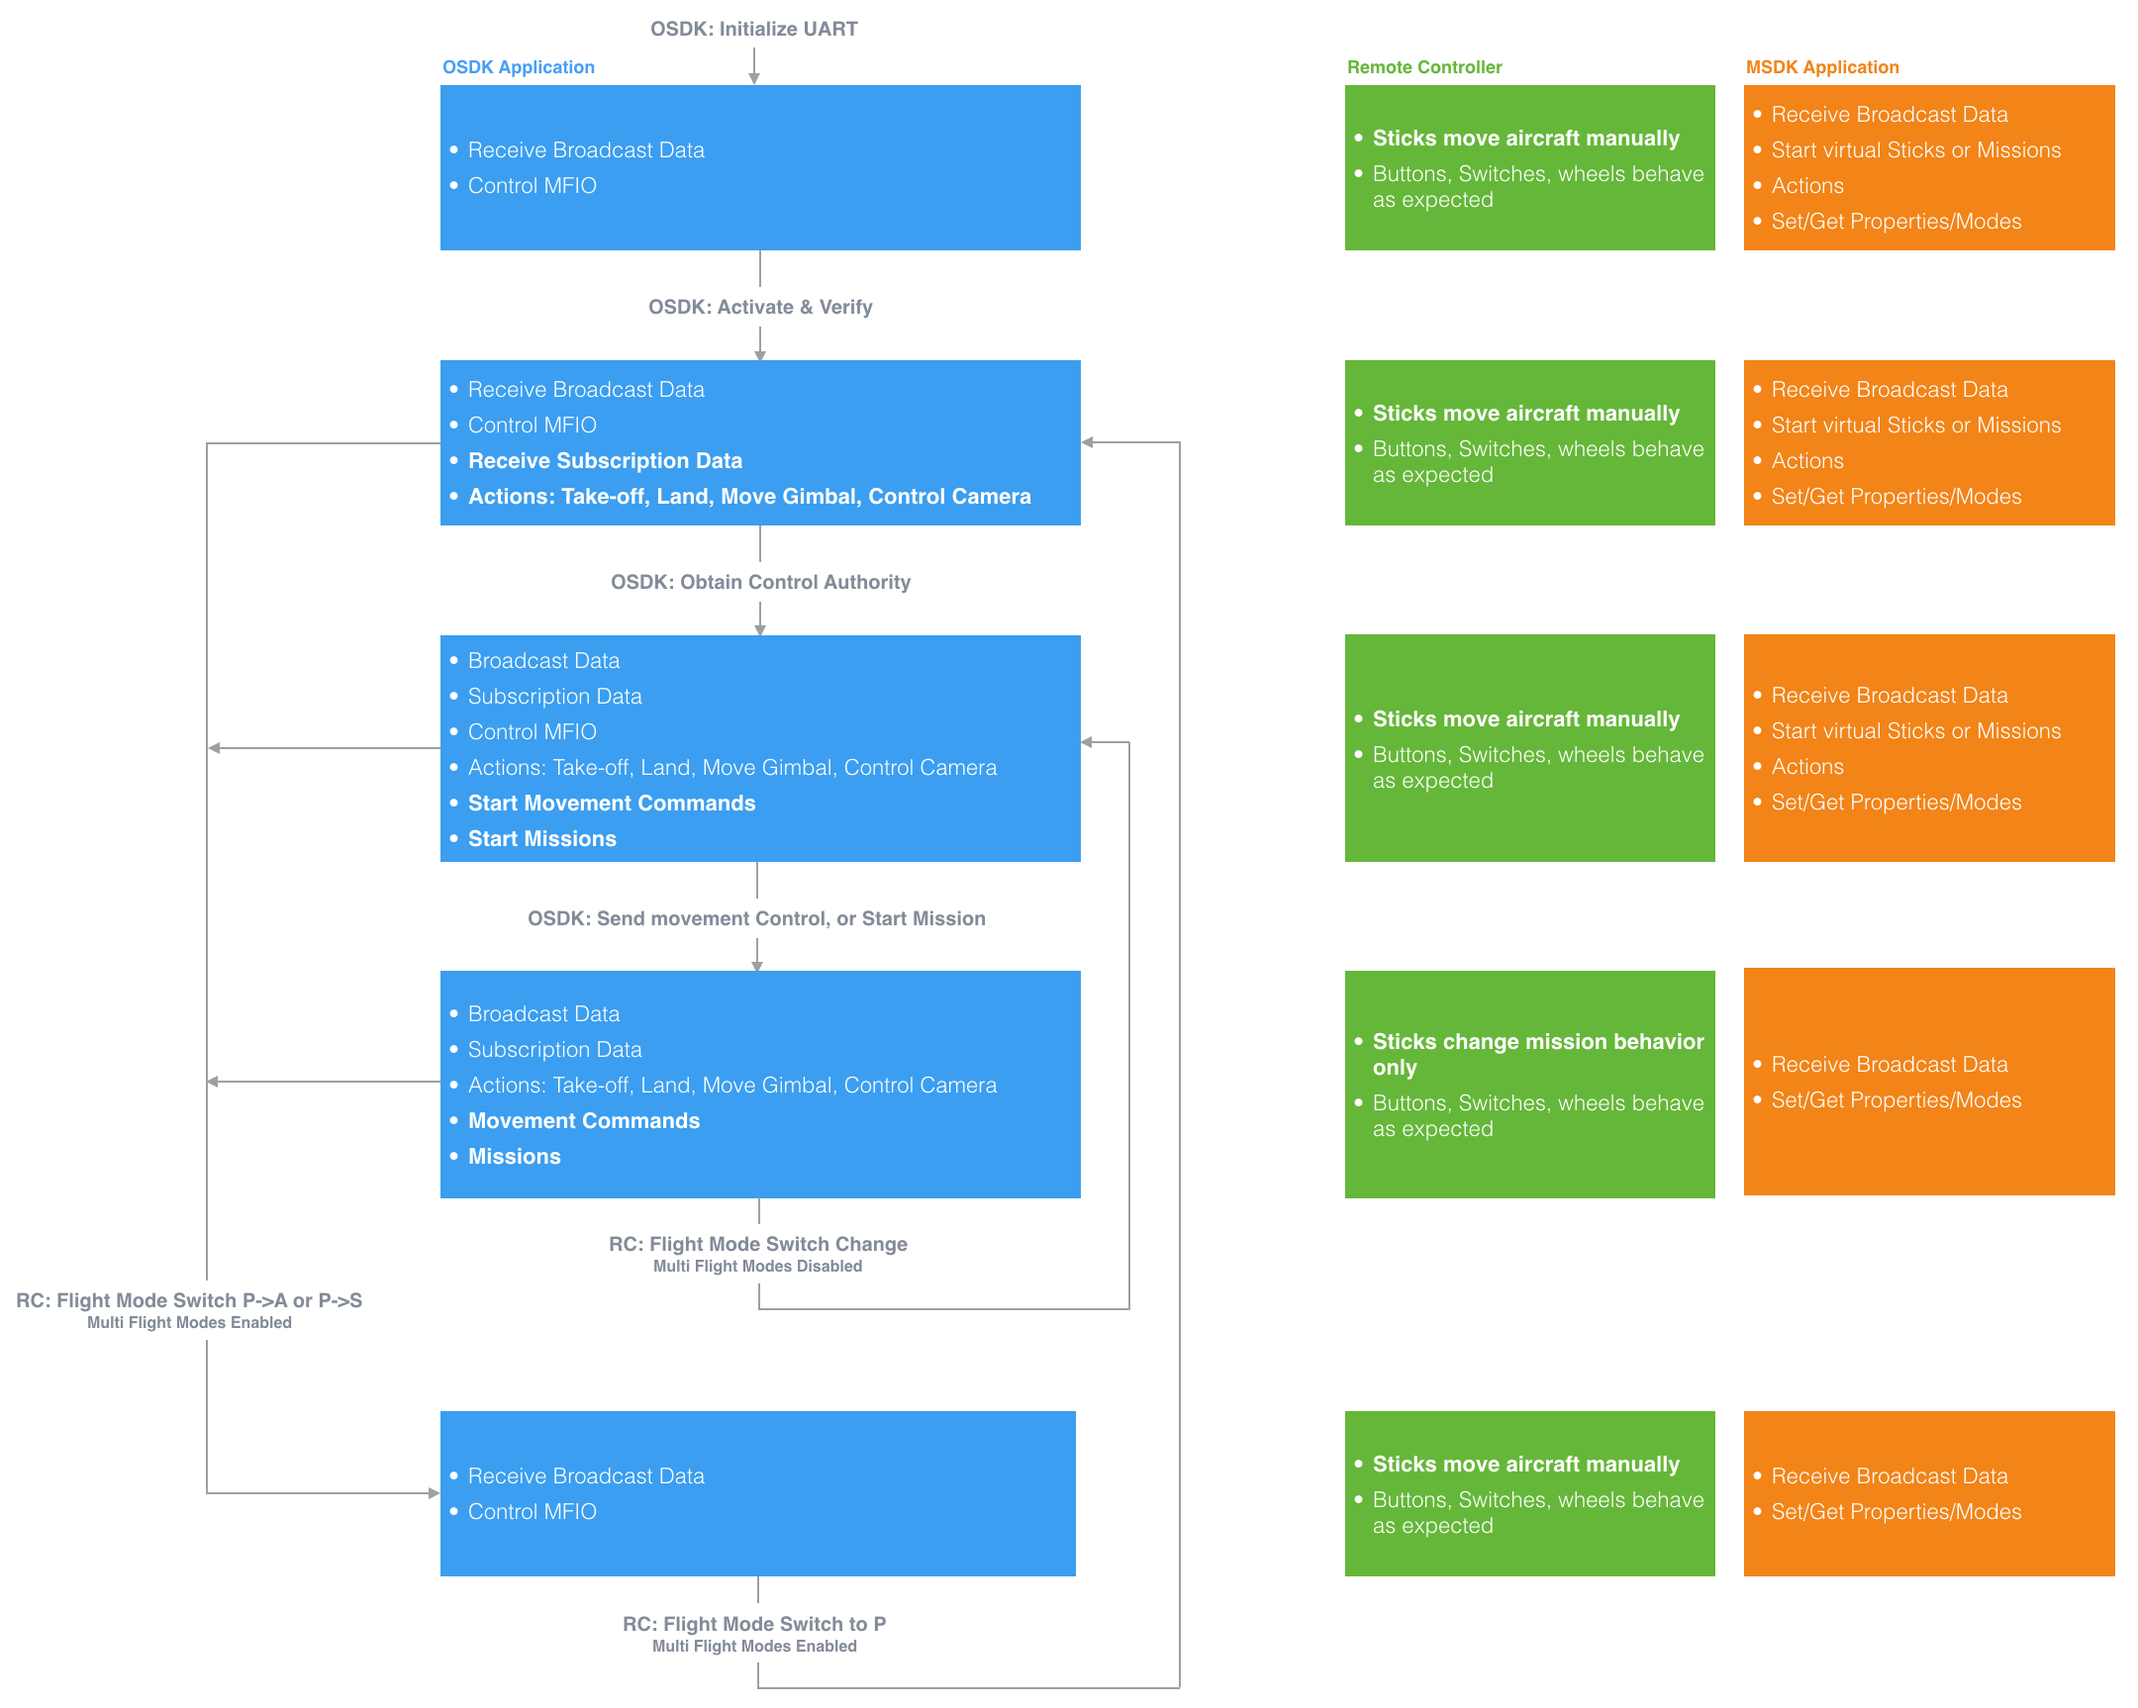
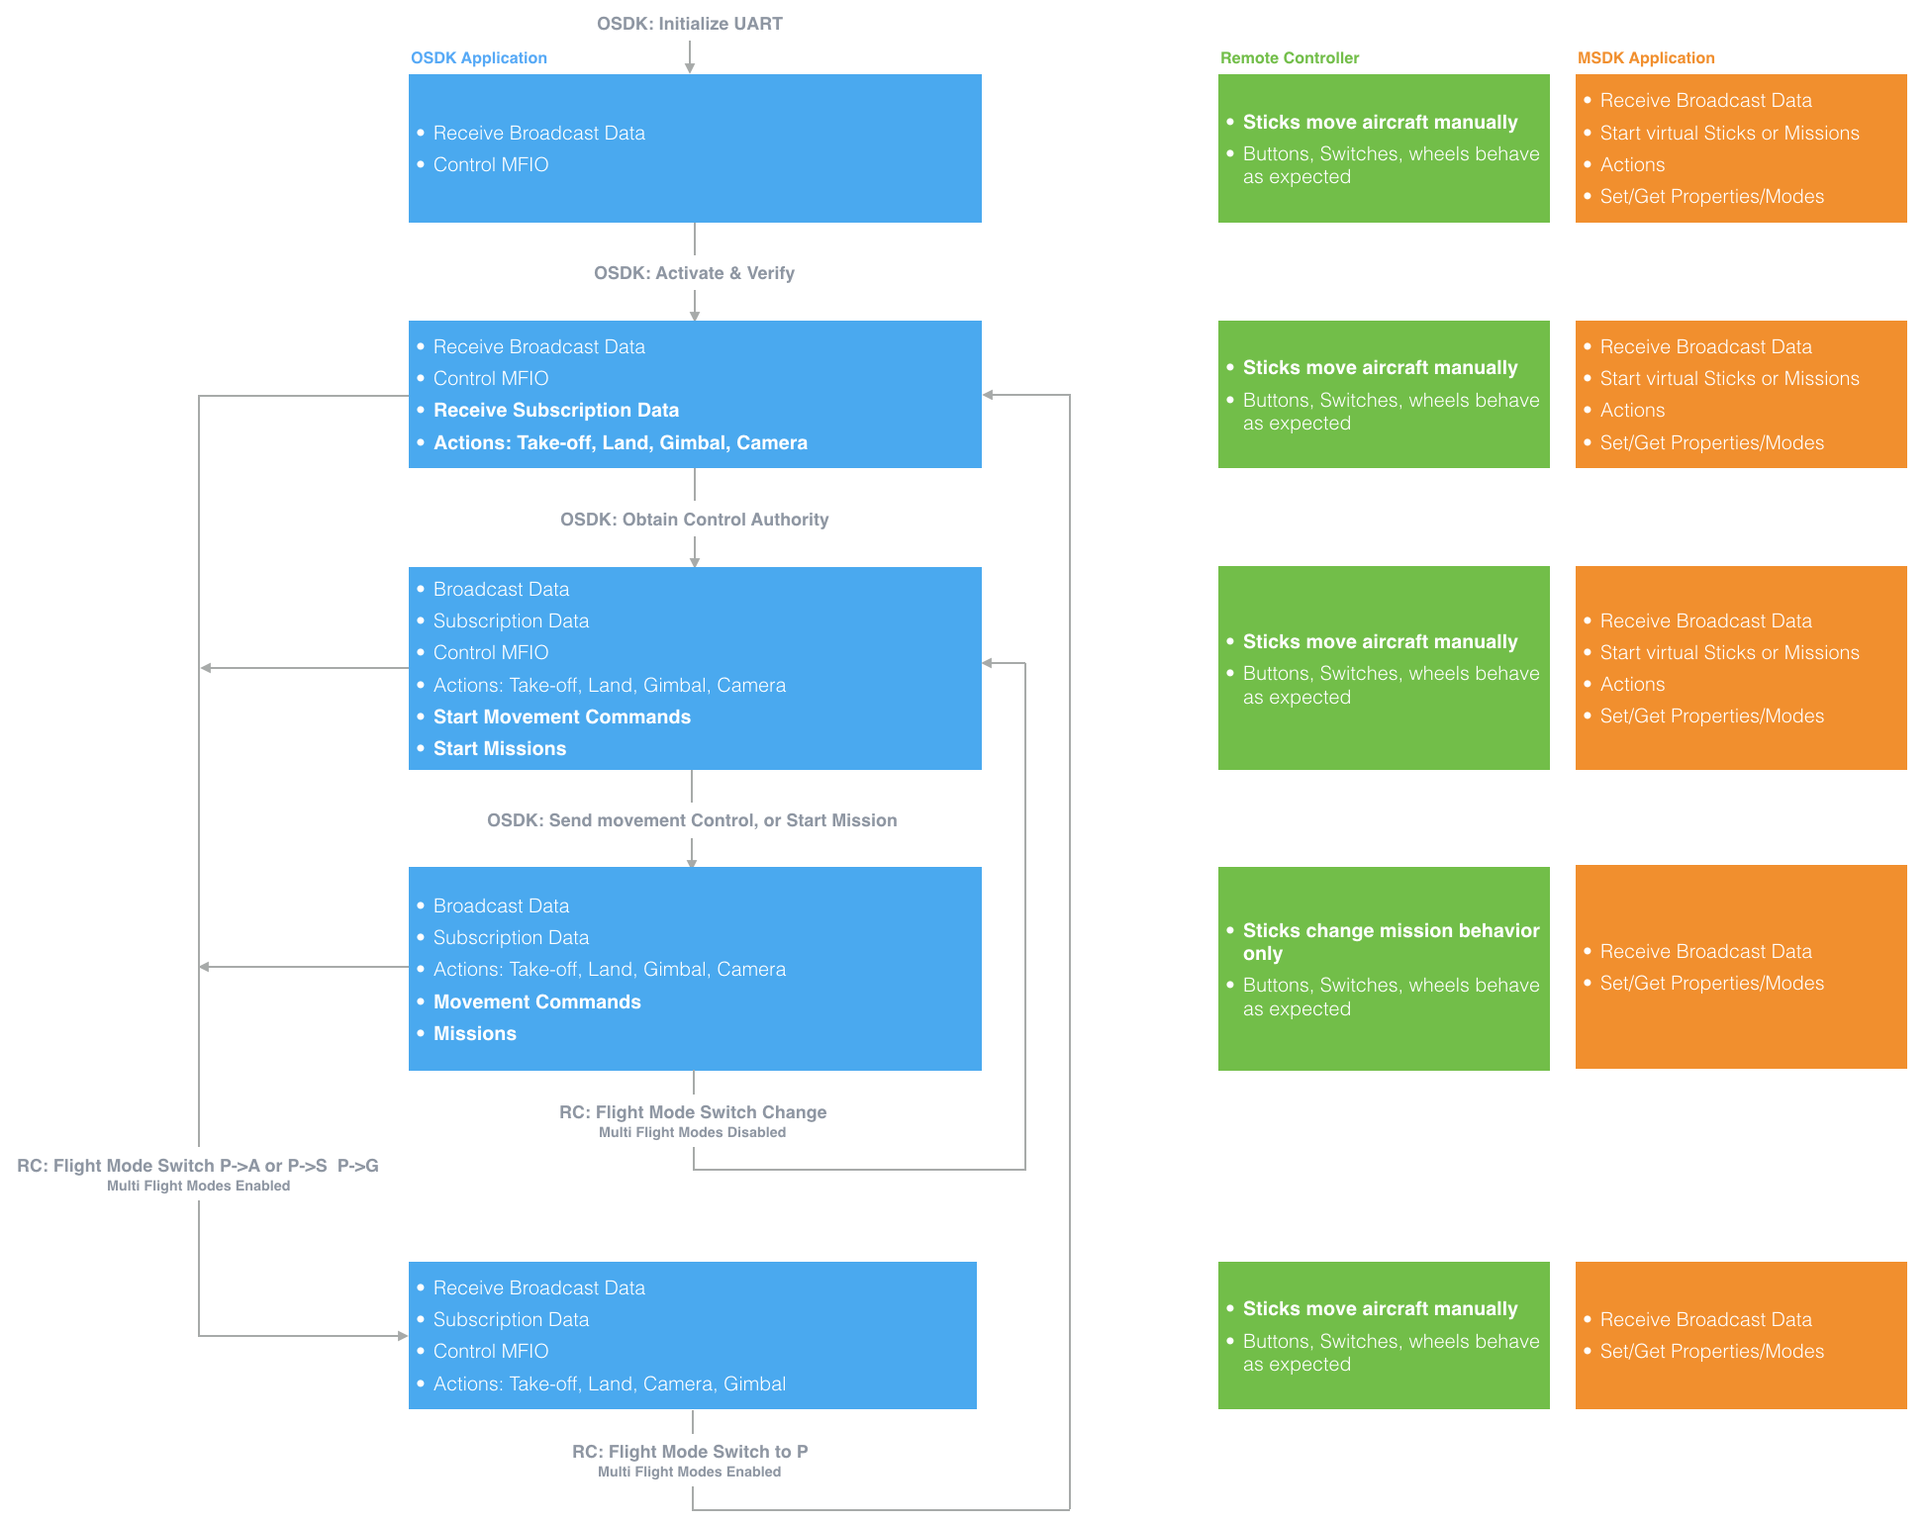
Control Authority Verbiage and Diagram

diff --git a/source/guides/component-guide-control-authority.md b/source/guides/component-guide-control-authority.md
@@ -20,14 +20,30 @@ The remote controller has the highest priority for control authority, and can re
 
 This is always done by switching the Flight Mode Switch on the remote controller. 
 
-For all DJI products except A3/N3 and M600/M600 Pro, there will be at least one switch position that allows SDK control, and another that disables it. 
+The Flight Mode Switch can represent 6 possible modes:
 
-A3 and N3 stand alone flight controllers have two possibilities, based around if **Multiple Flight Modes** is enabled or disabled (this is enabled/disabled in DJI Assistant).
+* **P** - Positioning mode. GNSS and Vision Positioning Systems are used for positioning if they are available. For products without F mode, intelligent functions such as SDK control can be performed in P-mode.
+* **F** - Function mode. Performs the same as Positioning mode with intelligent functions such as SDK control.
+* **A** - Attitude mode. The GNSS and Vision Positioning Systems are not used for positioning. The aircraft only uses the barometer to maintain altitude. If receiving a GNSS signal, the aircraft can automatically return home if the Remote Controller signal is lost and if the Home Point has been recorded successfully.
+* **S** - Sport mode. The maximum flight speed and responsiveness of the aircraft is increased in this mode.
+* **G** - Gentle mode. The sensitivity and speed of aircraft will be substantially decreased in gentle mode.
+* **M** - Manual mode. The aircraft will not stabilize its altitude nor attitude in manual mode. This mode is for advanced pilots only, and should only be used when the pilot understands the risk of operating in this mode. Any damage to the product when operating in this mode will not be covered under warranty. It is supported by stand-alone A3 and N3 and can be enabled in DJI Assistant 2.
 
-* **Enabled**: Similar to all other products - a particular position will disable SDK automation and another will enable it
-* **Disabled**: In this case, all switch positions will allow Onboard SDK automation - simply changing the switch position will give the remote controller control authority.
+On all products, SDK control is possible in either P or F mode. Other modes can be used to regain control for the remote controller.
 
-M600 and M600 Pro behave like A3/N3 with Multiple Flight Modes disabled.
+#### A3, N3
+A3 and N3 stand alone flight controllers can be setup in DJI assistant to either have various combinations of flight modes map to the remote controller flight mode switch position, or have all positions map to P mode. This selection is done with the **Multiple Flight Modes** option:
+
+* **Enabled**: Flight mode switch on the remote controller represents a selection of 3 modes including P, A, S, G and/or M modes. All modes other than P are used to regain control for the remote controller.
+* **Disabled**: All flight mode switch positions on the remote controller represent P mode. The flight mode switch just needs to be changed for the remote controller to regain control. Control is only temporarily regained, and logic in the onboard computer should monitor the remote controller flight mode switch and stop sending commands to the flight controller if the user needs to use the switch to permanently regain control.
+
+#### M600, M600 Pro
+
+When a remote controller is used with M600 or M600 Pro, all flight mode switch positions are P mode. Similar to Multiple Flight Modes disabled for A3/N3, the switch position only needs to be changed to regain control with the remote controller. Control is only temporarily regained, and logic in the onboard computer should monitor the remote controller flight mode switch and stop sending commands to the aircraft if the user needs to use the switch to permanently regain control.
+
+#### M100
+
+M100 has P, A and F modes on the remote controller flight mode switch. Only F mode enables SDK control, while P and A disable it.
 
 ## Mobile SDK
 
@@ -41,25 +57,19 @@ Whenever the Mobile SDK is not executing a flight maneuver, the remote controlle
 ## Onboard SDK
 
 Several prerequisites are required to enable control authority for the Onboard SDK:
-* Flight mode switch must be in correct position (unless using A3/N3 with Multiple Flight Modes disabled, or using M600/M600 Pro)
+
+* Flight mode switch must be in correct position (P mode for A3, N3, M600, M600 Pro and F mode for M100)
 * Onboard computer application must have activated the Onboard SDK
 * Onboard computer application must request and receive control authority
 
-Talk about ASG modes somewhere
+Control authority simply means the onboard computer can command the aircraft to move either through movement commands or missions. If all prerequisites are not met, the onboard computer can still receive state information, read from and write to the MFIO pins (if available) and perform some actions such as taking off and landing.
 
-
-In a typical Onboard SDK setup, the drone can be controlled by (1) the Remote Controller (2) the Mobile Device and/or (3) the Onboard Computer. The priority is generally set as (1) > (2) > (3). However 
-
-This is to prevent the dangerous situation of code failing and the user not being able to take control of the drone to shut it down.
-
-The remote controller always enjoys top priority for control. The flight controller can enter API Control Mode (Programmable Mode) if the following conditions are met:
-
-
-Your RC is conencted and powered on.
-The 'enable API control' box is checked in the assistant software.
-The mode selection bar of the remote controller is placed at the F position.
-To request control of the drone, your app must call the flight control request function exposed by the Onboard SDK library.
-
-Note that this does not mean the user will always be able to use RC sticks to control the aircraft; for example, in F mode (P mode for A3/N3 FW > 1.5.0.0) the sticks are unavailable when the SDK is executing movement control. The correct way to assert the RC's control precedence is to make sure the above conditions for API control are unmet - usually the easiest way to do so is to switch the RC out of F mode into P or A mode. For A3/N3 FW > 1.5.0.0, please see mode switch changes.
+The state diagram below shows what is available to the onboard computer and when during the various stages of running an Onboard SDK application. In addition, the authority of the remote controller and Mobile SDK is also shown for each onboard SDK application state.
 
 ![Control-Authority-State-Diagram](../images/common/Control-Authority-State-Diagram.png)
+
+The remote controller sticks can manually control aircraft flight for all states except for when the movement control commands are being sent from the onboard computer, or a mission has started. If missions are executing, the sticks will change the mission behavior:
+
+* Waypoint Mission: Sticks will control mission speed and aircraft yaw
+* Hotpoint Mission: Sticks will control hotpoint radius, direction of travel and aircraft yaw
+
